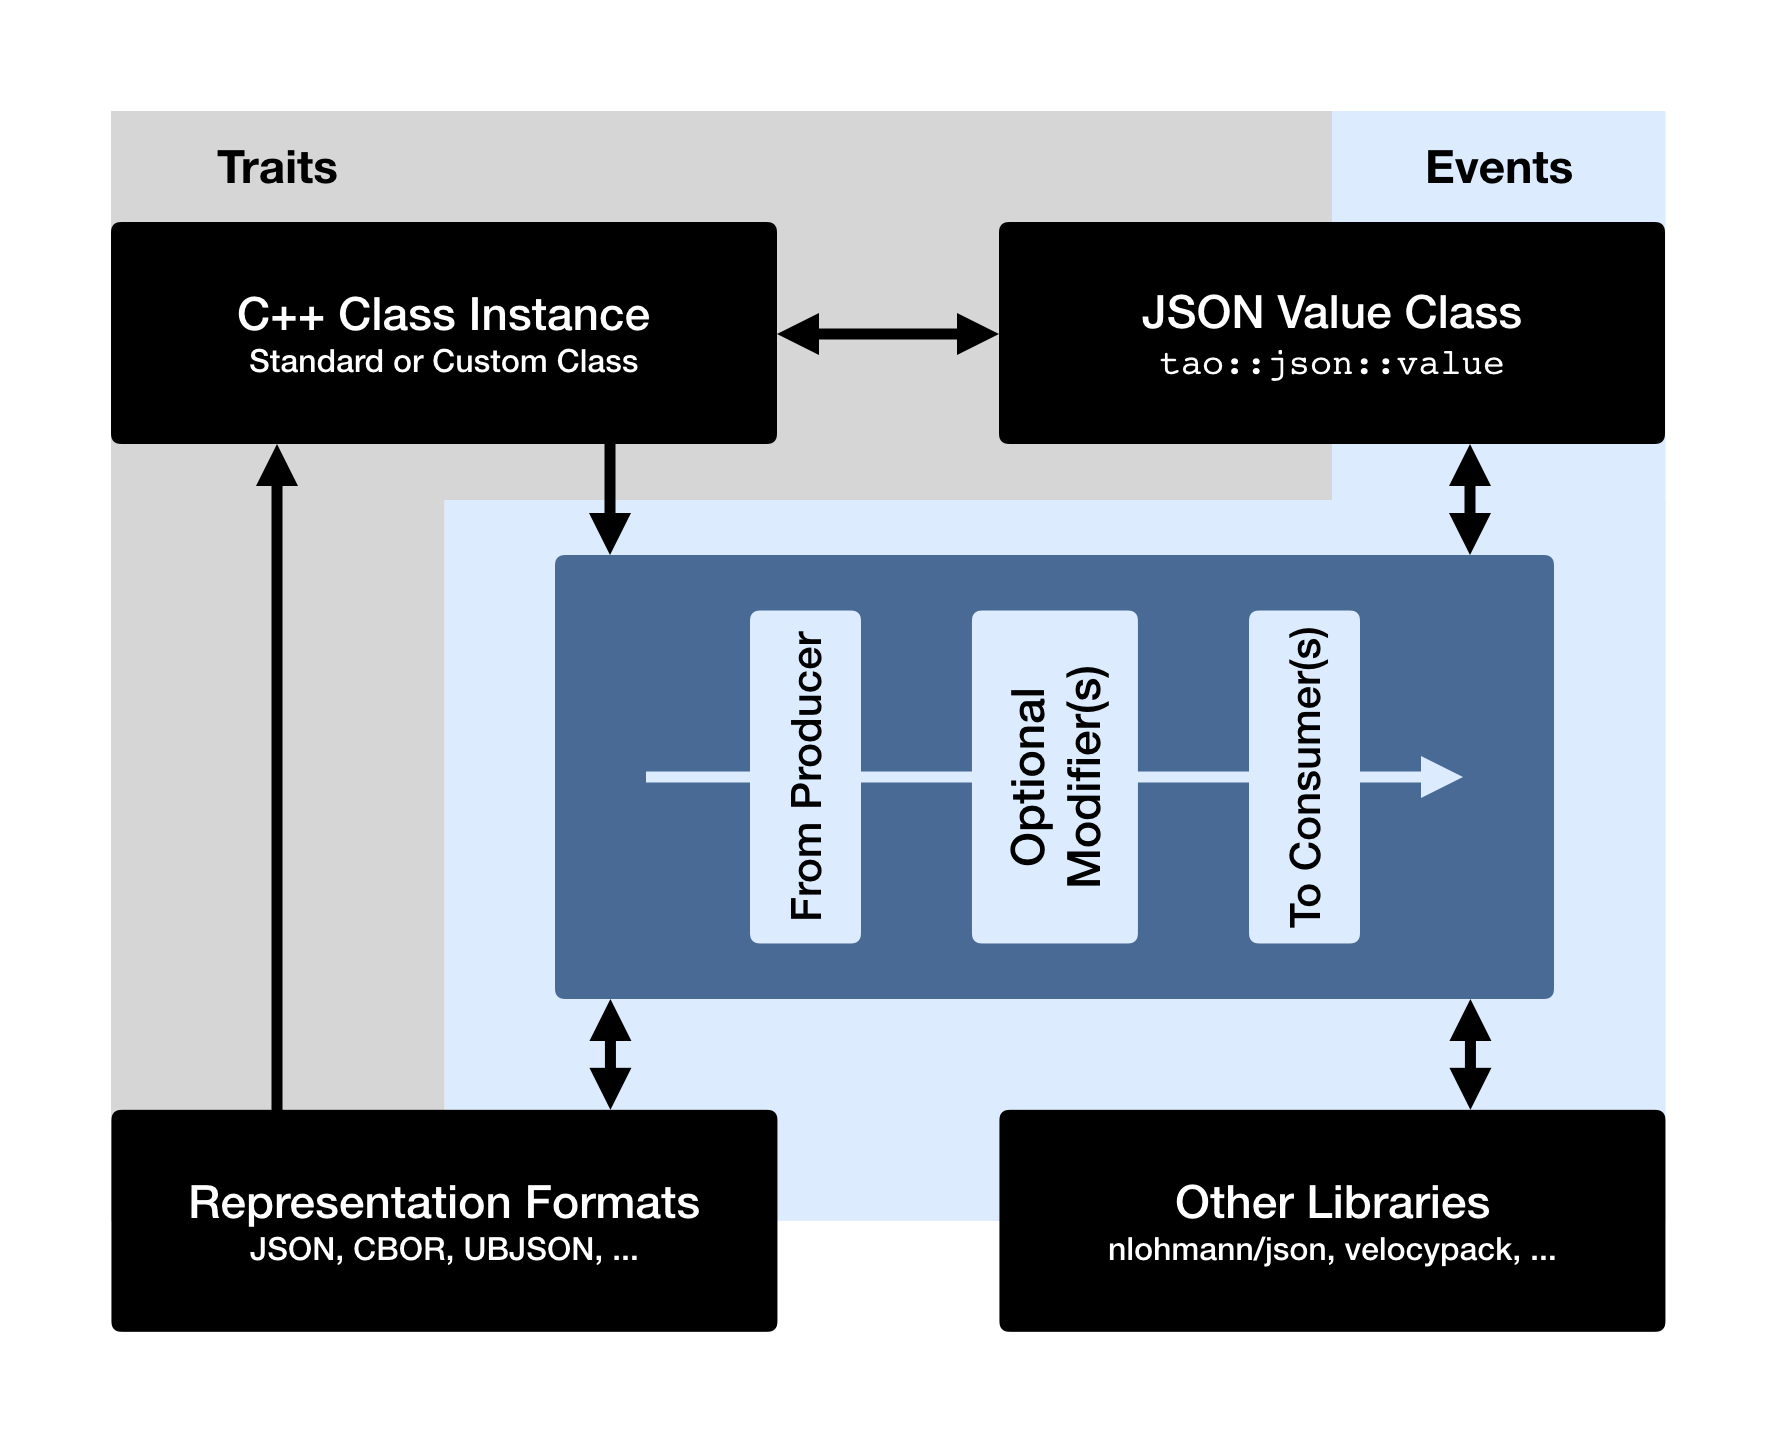
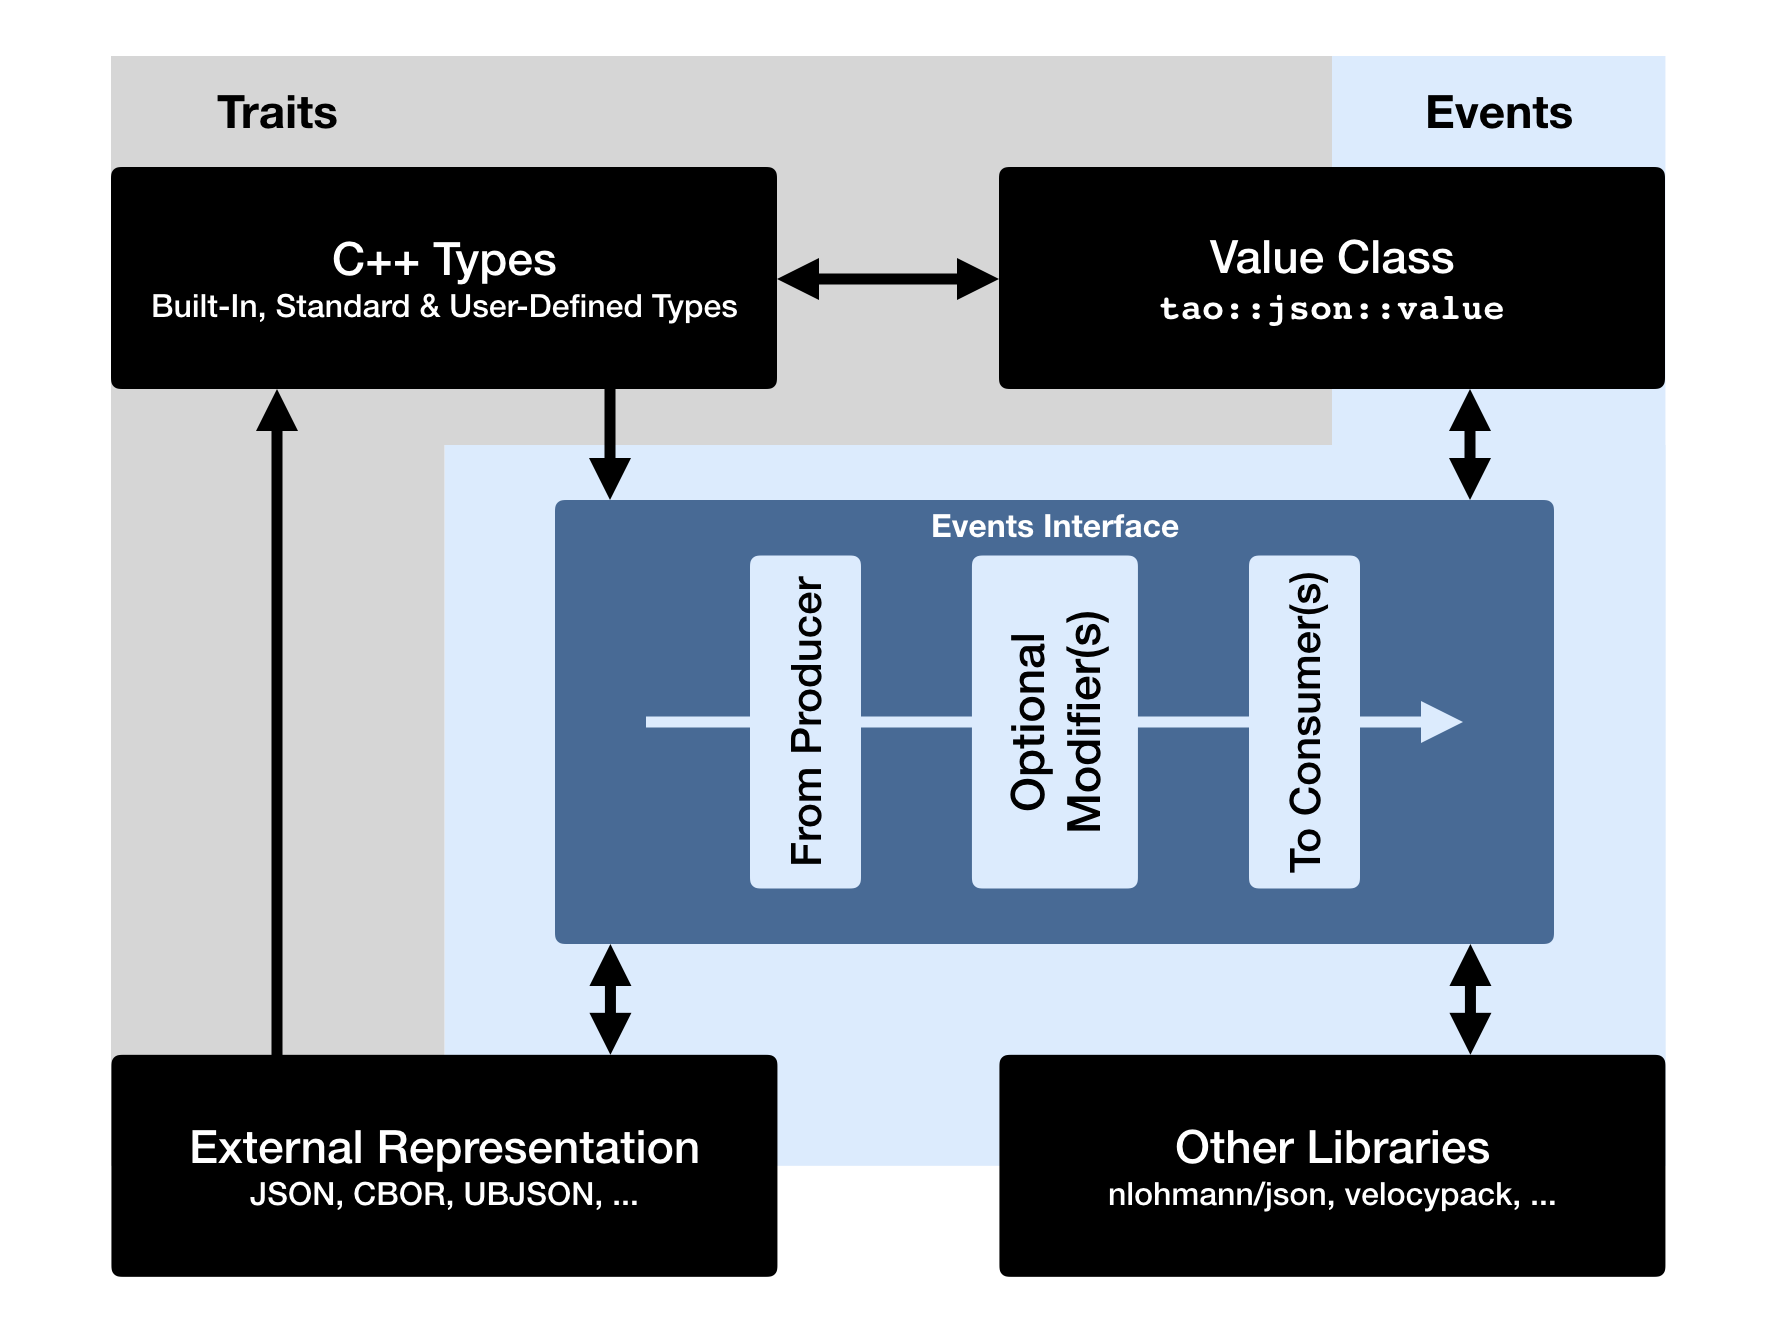
Documentation in progress.

diff --git a/doc/Overview.md b/doc/Overview.md
@@ -1,10 +1,10 @@
 # Overview
 
-The main parts of the library are
+The main parts of the JSON library are
 
-* the [JSON Value class](Value-Class.md) to hold (and inspect and modify) arbitrary (extended) JSON data in memory,
-* the [JSON Events interface](Events-Interface.md) as universal adapter to connect different parts of the library (and even other libraries), and
-* the [JSON type traits](Type-Traits.md) to control the interaction between other/custom C++ data types and the Value class and Events interface.
+* the [Value Class](Value-Class.md) to handle (extended) JSON data in memory,
+* the [Events Interface](Events-Interface.md) as universal adapter between different parts of the library (and other libraries), and
+* the [Type Traits](Type-Traits.md) to control the interaction between C++ data types and the Value Class and Events Interface.
 
 ![Overview](Overview.png)
 
